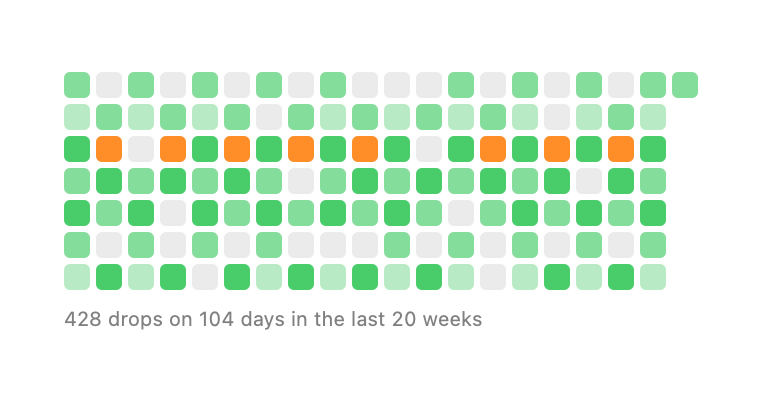
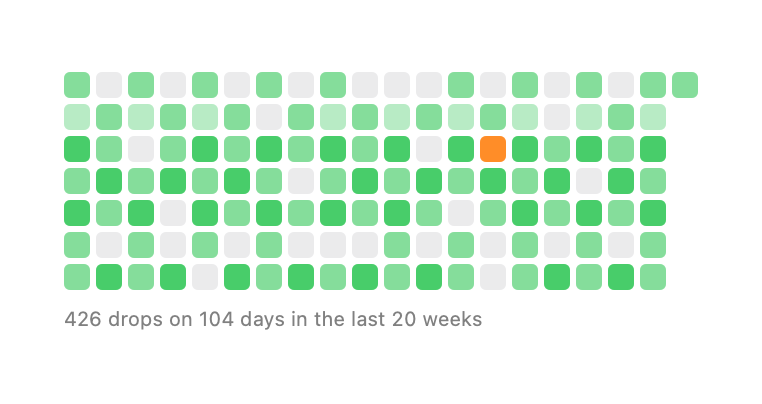
랜딩 2안(케찹 디자인 시스템 기준) 추가, 기록 이미지 교체

diff --git a/site/v2/index.html b/site/v2/index.html
@@ -1,0 +1,158 @@
+<!doctype html>
+<html lang="ko">
+<head>
+<meta charset="utf-8">
+<meta name="viewport" content="width=device-width, initial-scale=1">
+<title>인공눈물 타이머 2안 | TearTime</title>
+<meta name="robots" content="noindex">
+<meta name="description" content="맥을 쓰는 동안 인공눈물 넣을 때를 알려 주는 무료 메뉴바 앱.">
+<link rel="canonical" href="https://teartime.vercel.app/">
+<link rel="icon" href="/favicon.png">
+<link rel="stylesheet" href="https://cdn.jsdelivr.net/gh/orioncactus/pretendard@v1.3.9/dist/web/variable/pretendardvariable-dynamic-subset.min.css">
+<style>
+/* 케찹(ketchupdatalabs.com) 디자인 시스템 기준: 흰 바탕, 먹색 버튼, #f5f5f5 무테 카드, Pretendard 굵은 제목.
+   강조색만 케찹 레드(#f2552c) 대신 물방울 블루로 바꿨다. */
+:root{--surface:#fff;--soft:#f5f5f5;--ink:#111;--ink2:#181816;--mut:#727582;--line:#e6e8eb;--acc:#2a7ef2;--acc-tint:#eef5ff}
+*{box-sizing:border-box}
+html{scroll-behavior:smooth;-webkit-text-size-adjust:100%}
+body{margin:0;background:var(--surface);color:var(--ink2);font-family:"Pretendard Variable",Pretendard,-apple-system,"Apple SD Gothic Neo",sans-serif;word-break:keep-all;-webkit-font-smoothing:antialiased}
+a{color:inherit;text-decoration:none}
+.in{max-width:1080px;margin:0 auto;padding:0 20px}
+
+nav{position:fixed;inset:0 0 auto;height:72px;z-index:20;background:rgba(255,255,255,.86);backdrop-filter:saturate(1.6) blur(14px);-webkit-backdrop-filter:saturate(1.6) blur(14px)}
+nav .in{height:100%;display:flex;align-items:center;justify-content:space-between}
+.logo{display:flex;align-items:center;gap:8px;font-weight:800;font-size:18px;letter-spacing:-.03em;color:var(--ink)}
+.logo img{width:28px;height:28px}
+.nav-r{display:flex;align-items:center;gap:18px;font-size:15px;font-weight:600;color:var(--mut)}
+.btn{display:inline-flex;align-items:center;gap:8px;background:var(--ink);color:#fff;font-weight:700;border-radius:12px;white-space:nowrap}
+.btn-s{height:40px;padding:0 16px;font-size:14px}
+.btn-l{height:56px;padding:0 26px;font-size:17px}
+.btn:hover{background:#2b2b2b}
+
+.hero{padding:150px 0 40px;text-align:center}
+h1{font-size:clamp(32px,6vw,52px);line-height:1.2;letter-spacing:-.04em;font-weight:700;color:var(--ink);margin:0 0 18px}
+.sub{font-size:clamp(15px,2.2vw,18px);font-weight:600;color:var(--mut);letter-spacing:-.02em;margin:0 0 30px}
+.meta{margin-top:16px;font-size:14px;font-weight:600;color:var(--mut)}
+.meta b{color:var(--ink)}
+
+.stage{margin:48px auto 0;max-width:980px;background:var(--soft);border-radius:30px;padding:44px 24px;display:grid;grid-template-columns:1.1fr 1fr;gap:20px;align-items:center}
+.stage img{width:100%;height:auto;display:block}
+.stage .hist{background:#fff;border-radius:22px}
+@media (max-width:760px){.stage{grid-template-columns:1fr;padding:28px 16px}}
+
+.stats{display:grid;grid-template-columns:repeat(4,1fr);gap:8px;padding:90px 0 20px;text-align:center}
+.stats dt{font-size:14px;font-weight:600;color:var(--mut);margin-bottom:6px}
+.stats dd{margin:0;font-size:clamp(28px,4vw,40px);font-weight:700;letter-spacing:-.02em;color:var(--ink)}
+.stats small{font-size:.45em;margin-left:3px}
+@media (max-width:760px){.stats{grid-template-columns:repeat(2,1fr);row-gap:36px}}
+
+section{padding:110px 0}
+h2{font-size:clamp(24px,4vw,34px);line-height:1.3;letter-spacing:-.035em;font-weight:700;color:var(--ink);text-align:center;margin:0 0 48px}
+h2 em{font-style:normal;color:var(--acc);display:block}
+.cards{display:grid;grid-template-columns:repeat(3,1fr);gap:16px}
+@media (max-width:860px){.cards{grid-template-columns:1fr}}
+.card{background:var(--soft);border-radius:26px;padding:30px 28px}
+.card .n{display:inline-flex;align-items:center;justify-content:center;width:34px;height:34px;border-radius:10px;background:var(--acc-tint);color:var(--acc);font-weight:800;font-size:14px;margin-bottom:18px}
+.card h3{font-size:20px;letter-spacing:-.03em;margin:0 0 8px;color:var(--ink)}
+.card p{margin:0;font-size:15px;font-weight:500;line-height:1.6;color:var(--mut)}
+
+.band{background:var(--soft)}
+.steps{max-width:720px;margin:0 auto;display:grid;gap:12px;counter-reset:s}
+.step{background:#fff;border-radius:20px;padding:22px 24px 22px 70px;position:relative;font-size:16px;font-weight:500;line-height:1.6}
+.step::before{counter-increment:s;content:counter(s);position:absolute;left:22px;top:22px;width:30px;height:30px;border-radius:50%;background:var(--ink);color:#fff;font-weight:800;font-size:14px;display:flex;align-items:center;justify-content:center}
+.step b{color:var(--ink)}
+code{font-family:ui-monospace,Menlo,monospace;font-size:13.5px;background:var(--soft);border-radius:8px;padding:3px 8px;word-break:break-all}
+.tip{max-width:720px;margin:18px auto 0;font-size:14px;font-weight:600;color:var(--mut);text-align:center}
+
+.faq{max-width:760px;margin:0 auto}
+details{border-bottom:1px solid var(--line);padding:22px 4px}
+summary{list-style:none;cursor:pointer;font-size:18px;font-weight:700;letter-spacing:-.02em;color:var(--ink);display:flex;justify-content:space-between;gap:16px}
+summary::-webkit-details-marker{display:none}
+summary::after{content:"+";font-weight:400;font-size:24px;line-height:1;color:var(--mut)}
+details[open] summary::after{content:"−"}
+details p{margin:12px 0 0;font-size:15px;font-weight:500;line-height:1.7;color:var(--mut)}
+details a{color:var(--acc)}
+
+.cta{text-align:center;padding:40px 0 120px}
+.cta h2{margin-bottom:28px}
+.pill{display:inline-flex;align-items:center;gap:12px;height:56px;padding:0 10px 0 26px;border-radius:999px;background:var(--ink);color:#fff;font-weight:700;font-size:17px}
+.pill span{background:var(--acc);border-radius:999px;padding:8px 14px;font-size:14px}
+
+footer{border-top:1px solid var(--line);padding:36px 0 56px;font-size:13px;font-weight:500;line-height:1.8;color:var(--mut)}
+footer a{text-decoration:underline}
+</style>
+</head>
+<body>
+<nav><div class="in">
+  <a class="logo" href="/v2/"><img src="/img/icon.png" alt="">인공눈물 타이머</a>
+  <div class="nav-r"><a href="/en/" hreflang="en">English</a><a class="btn btn-s" href="https://github.com/d4ymonth/teartime/releases/latest/download/TearTime.zip">다운로드</a></div>
+</div></nav>
+
+<main>
+<div class="hero in">
+  <h1>모니터 보다 잊은 인공눈물,<br>이제 맥이 챙겨요</h1>
+  <p class="sub">화면을 보는 시간만 세다가, 넣을 때가 되면 살짝 알려 드려요.</p>
+  <a class="btn btn-l" href="https://github.com/d4ymonth/teartime/releases/latest/download/TearTime.zip">무료로 다운로드 <span aria-hidden="true">→</span></a>
+  <p class="meta"><b>macOS 15 이상</b>, 애플실리콘과 인텔 모두 지원</p>
+
+  <div class="stage">
+    <img src="/img/reminder-ko.png" alt="인공눈물 넣을 시간 알림 창: 넣었어요, 10분 뒤, 30분 뒤 버튼" width="840" height="420">
+    <img class="hist" src="/img/history-ko.png" alt="최근 20주 인공눈물 점안 기록을 날짜별 칸으로 보여 주는 화면" width="714" height="356">
+  </div>
+
+  <dl class="stats">
+    <div><dt>가격</dt><dd>0<small>원</small></dd></div>
+    <div><dt>메뉴바 차지 폭</dt><dd>29<small>px</small></dd></div>
+    <div><dt>지원 언어</dt><dd>5<small>개</small></dd></div>
+    <div><dt>서버로 보내는 데이터</dt><dd>0<small>건</small></dd></div>
+  </dl>
+</div>
+
+<section class="in">
+  <h2>하루 종일 맥 앞이라면<em>인공눈물도 타이머가 셉니다</em></h2>
+  <div class="cards">
+    <div class="card"><div class="n">01</div><h3>화면 보는 시간만 세요</h3><p>2분 넘게 자리를 비우면 멈춰요. 알림 간격은 20분부터 120분까지 고를 수 있어요.</p></div>
+    <div class="card"><div class="n">02</div><h3>하루 상한을 지켜요</h3><p>오늘 몇 번 넣었는지 세고, 상한(기본 6회)에 닿으면 더는 알리지 않아요.</p></div>
+    <div class="card"><div class="n">03</div><h3>기록은 잔디로 남아요</h3><p>최근 20주를 하루 한 칸으로 보여 줘요. 상한을 넘긴 날은 주황색으로.</p></div>
+    <div class="card"><div class="n">04</div><h3>메뉴바엔 물방울 하나</h3><p>자리를 거의 차지하지 않아요. 클릭 한 번이면 "지금 넣었어요".</p></div>
+    <div class="card"><div class="n">05</div><h3>5개 언어</h3><p>한국어, 영어, 일본어, 독일어, 중국어(간체). 맥 언어 설정을 따라가요.</p></div>
+    <div class="card"><div class="n">06</div><h3>기록은 내 맥에만</h3><p>계정도 서버도 없어요. 소스코드는 GitHub에 공개되어 있어요.</p></div>
+  </div>
+</section>
+
+<section class="band" id="install">
+  <div class="in">
+    <h2>설치는 1분이면<em>처음 한 번만 허용해 주세요</em></h2>
+    <div class="steps">
+      <div class="step"><b>TearTime.zip</b>을 받아 압축을 풀고, <b>TearTime.app</b>을 응용 프로그램 폴더로 옮겨요.</div>
+      <div class="step">처음 열면 "확인할 수 없음" 경고가 떠요. 앱스토어 밖에서 무료로 배포해 Apple 공증을 받지 않았기 때문이에요. <b>완료</b>를 눌러요.</div>
+      <div class="step"><b>시스템 설정 &gt; 개인정보 보호 및 보안</b>에서 아래쪽 <b>그래도 열기</b>를 눌러요.</div>
+      <div class="step">메뉴바에 물방울이 생기면 끝. <b>설정…</b>에서 간격, 상한, 로그인 시 자동 실행을 정해요.</div>
+    </div>
+    <p class="tip">터미널이 편하다면 <code>xattr -dr com.apple.quarantine /Applications/TearTime.app</code></p>
+  </div>
+</section>
+
+<section class="in">
+  <h2>자주 묻는 질문</h2>
+  <div class="faq">
+    <details><summary>인공눈물은 하루에 몇 번 넣나요?</summary><p>일회용 인공눈물은 하루 4~6회, 방부제가 든 다회용은 하루 4회 이내로 안내하는 경우가 많아요(<a href="https://doctornow.co.kr/content/faq/ca4fa57d05dc4c1f8c37da40df785e95" rel="nofollow">닥터나우 안내</a>). 처방받았다면 의사, 약사의 안내가 우선이에요.</p></details>
+    <details><summary>정말 무료인가요?</summary><p>네. 광고도 결제도 없고, <a href="https://github.com/d4ymonth/teartime">소스코드도 공개</a>되어 있어요.</p></details>
+    <details><summary>처음 열 때 경고가 떠요.</summary><p>Apple 공증을 받지 않은 앱이라 뜨는 경고예요. 위 설치 3단계처럼 그래도 열기를 누르면 돼요.</p></details>
+    <details><summary>내 기록이 어딘가로 전송되나요?</summary><p>아니요. 점안 기록과 설정은 내 맥에만 저장돼요.</p></details>
+    <details><summary>윈도우나 아이폰에서도 되나요?</summary><p>지금은 macOS 15 이상 맥만 지원해요.</p></details>
+  </div>
+</section>
+
+<div class="cta in">
+  <h2>오늘부터 눈 건조함,<em>타이머에 맡겨 보세요</em></h2>
+  <a class="pill" href="https://github.com/d4ymonth/teartime/releases/latest/download/TearTime.zip">인공눈물 타이머 받기 <span>무료</span></a>
+</div>
+</main>
+
+<footer><div class="in">
+  이 앱은 의료기기가 아니며 진단이나 치료를 대신하지 않아요. 눈 증상이 계속되면 안과 진료를 받으세요.<br>
+  피드백 <a href="mailto:d4ymonth@users.noreply.github.com">d4ymonth@users.noreply.github.com</a>, <a href="https://github.com/d4ymonth/teartime/issues">GitHub Issues</a>. MIT License.
+</div></footer>
+</body>
+</html>
